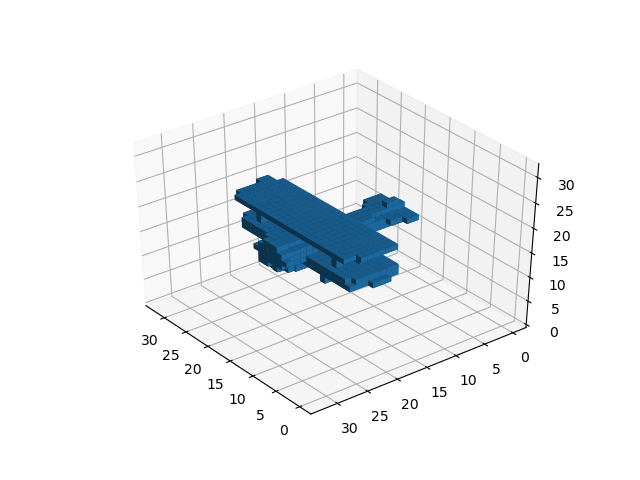
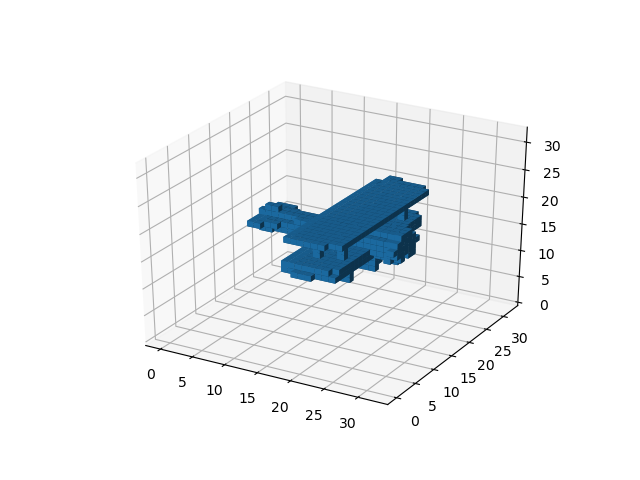
better visualization of both df and sdf, ready to merge

Changed region(s): [[0.2188, 0.1562, 0.9062, 0.9062], [0.875, 0.375, 0.9062, 0.4062], [0.5312, 0.875, 0.5625, 0.9062]]

diff --git a/dataset/visualization.py b/dataset/visualization.py
@@ -15,34 +15,14 @@ def visualize_df(tensor):
     if len(tensor.shape) == 4:
         tensor = np.squeeze(tensor, 0)
 
-    # display full distance field
-    x, y, z = np.indices(tensor.shape).reshape(3, -1)
-    color = tensor[x, y, z]
-
-    fig = plt.figure("Full DF")
-    ax = fig.add_subplot(111, projection='3d')
-    ax.scatter(x, -z, y, zdir='z', c=cm.jet(color), s=0.6)
-    plt.show()
-
     # The following portion attempts to extract the shape from the DF
-    # # display zero voxels in DF
-    # x, y, z = np.where(tensor <= 0.5)
-    # color = tensor[x, y, z]
-    #
-    # fig2 = plt.figure("Zero DF")
-    # ax2 = fig2.add_subplot(111, projection='3d')
-    # ax2.scatter(z, x, y, zdir='z', c=cm.jet(color), s=0.6)
-    # plt.show()
-    #
-    # # display non-zeros voxels in DF
-    # x, y, z = tensor.nonzero()
-    # color = tensor[x, y, z]
-    #
-    # fig3 = plt.figure("Non-Zero DF")
-    # ax3 = fig3.add_subplot(111, projection='3d')
-    # ax3.scatter(z, x, y, zdir='z', c=cm.jet(color), s=0.6)
-    # plt.show()
-
+    # display zero voxels in DF
+    x, y, z = np.where(tensor <= 0.5)
+    color = tensor[x, y, z]
+    
+    fig2 = plt.figure("Zero DF")
+    ax2 = fig2.add_subplot(111, projection='3d')
+    ax2.scatter(z, x, y, zdir='z', c=cm.jet(color), s=0.6)
 
 def visualize_sdf(tensor):
     """Basic 3D visualization for a signed distance field tensor.
@@ -65,21 +45,53 @@ def visualize_sdf(tensor):
     m = cm.ScalarMappable(norm=norm, cmap=cmap)
 
     # plot finite SDF voxels
-    fig = plt.figure("Finite Region")
+    fig = plt.figure("Finite SDF")
     ax = fig.add_subplot(111, projection='3d')
     color_list = []
     for i in range(len(x)):
         color_list.append(m.to_rgba(finite_color[i]))
-    ax.scatter(x, -z, y, zdir='z', c=color_list, s=0.6)
+    ax.scatter(z, x, y, zdir='z', c=color_list, s=0.6)
 
-    # For visualization on voxels with infinite values
-    # # find voxels with infinite sdf values
-    # infinite_regions = ~np.isfinite(tensor)
-    # infinite_color = tensor[infinite_regions]
-    # z_inf, x_inf, y_inf = infinite_regions.nonzero()
-    #
-    # # plot infinite SDF voxels
-    # fig2 = plt.figure("Infinite Region")
-    # ax2 = fig2.add_subplot(111, projection='3d')
-    # ax2.scatter(z_inf, x_inf, y_inf, zdir='z', c=cm.jet(infinite_color), s=0.6)
-    # plt.show()
+
+
+def visualize_df_voxel(tensor):
+    """3D visualization for a distance field tensor, where each values on the boundary is 	       represented through solid shapes.
+
+    :param tensor: Distance Field (DF) tensor, np.array, shape = (32, 32, 32)
+    :return: None
+    """
+
+    if len(tensor.shape) == 4:
+        tensor = np.squeeze(tensor, 0)
+
+    volume = np.less_equal(tensor, 0.5)
+    volumeTransposed = np.transpose(volume, (2, 0, 1))
+    
+    fig = plt.figure("Zero DF with voxels")
+    ax = fig.add_subplot(111, projection='3d')
+    ax.voxels(volumeTransposed)
+
+
+def visualize_sdf_voxel(tensor):
+    """3D visualization for a signed distance field tensor, where each values on the boundary is 	       represented through solid shapes.
+
+    :param tensor: Signed Distance Field (SDF) tensor, np.array, shape = (32, 32, 32)
+    :return: None
+    """
+
+    if len(tensor.shape) == 4:
+        tensor = np.squeeze(tensor, 0)
+
+    # find voxels with finite sdf values
+    finite_region = np.isfinite(tensor)*1
+
+    # extract finite values
+    volume = np.greater(finite_region, 0)
+    volumeTransposed = np.transpose(volume, (2, 0, 1))
+    
+    fig = plt.figure("Finite SDF with voxels")
+    ax = fig.add_subplot(111, projection='3d')
+    ax.voxels(volumeTransposed)
+
+def show():
+    plt.show()

diff --git a/visual_test.py b/visual_test.py
@@ -1,7 +1,7 @@
 import os
 from utils import *
 from torch.utils.data import DataLoader
-from dataset.visualization2 import *
+from dataset.visualization import *
 import torch
 from dataset.data_utils import *
 from torch.utils.data import Dataset
@@ -25,6 +25,9 @@ if __name__ == "__main__":
 
 	# visualization of a random sample
 	sample = out
-	#visualize_sdf(sample['inputs'].numpy())
-	visualize_df(sample['targets'].numpy())
+	visualize_sdf(sample['inputs'].numpy())
+	visualize_sdf_voxel(sample['inputs'].numpy())
 
+	visualize_df(sample['targets'].numpy())
+	visualize_df_voxel(sample['targets'].numpy())
+	show()
